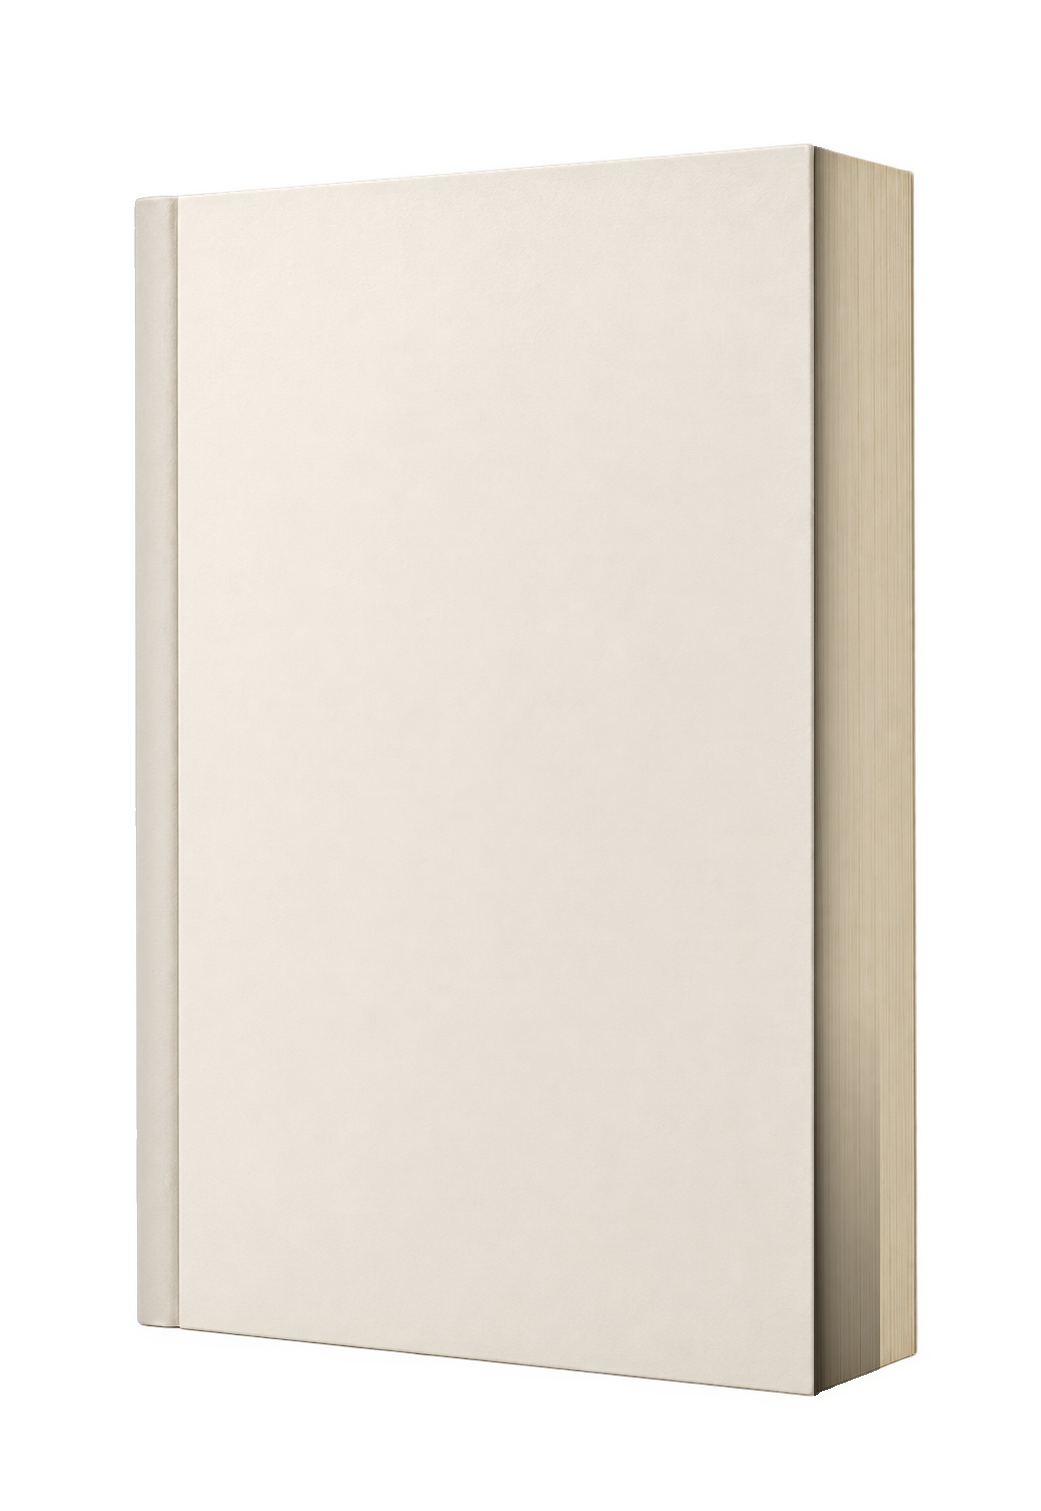
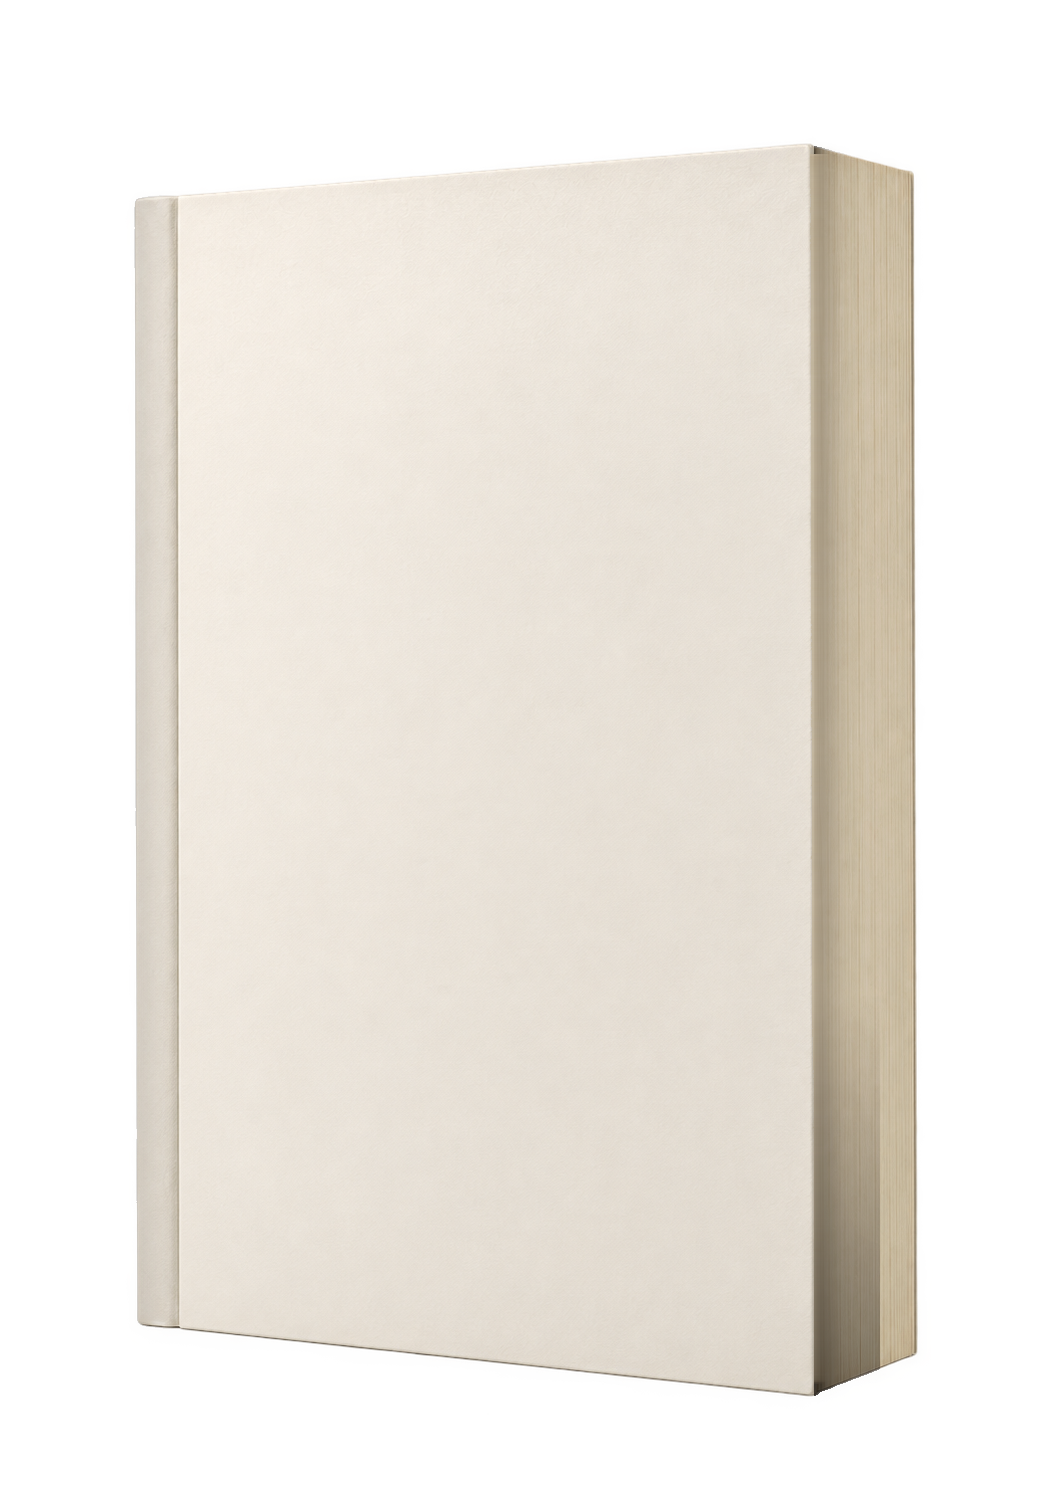
fix(home,cms): remove harsh 3D book shadow artifacts, point preview to storefront, remove dialer roller, round frame corners

Changed region(s): [[0.7685, 0.0933, 0.7992, 0.9021]]

diff --git a/app/src/components/admin/VisualCmsEditor.tsx b/app/src/components/admin/VisualCmsEditor.tsx
@@ -91,116 +91,6 @@ const REGISTERED_CMS_KEYS: EditableKeyInfo[] = [
   { key: 'footer.phone', label: 'Landline Phone Number', section: 'Contact & Storefront', defaultText: '033 2219 6115' },
 ];
 
-// Apple Digital Precision Roller (Horizontal Crown / Ruler)
-const DigitalRoller: React.FC<{
-  value: number;
-  min?: number;
-  max?: number;
-  onChange: (val: number) => void;
-  isDark: boolean;
-}> = ({ value, min = 12, max = 80, onChange, isDark }) => {
-  const rulerRef = useRef<HTMLDivElement>(null);
-  const [isDragging, setIsDragging] = useState(false);
-
-  const ticks: number[] = [];
-  for (let i = min; i <= max; i += 2) {
-    ticks.push(i);
-  }
-
-  const updateFromPointer = (clientX: number) => {
-    if (!rulerRef.current) return;
-    const rect = rulerRef.current.getBoundingClientRect();
-    const ratio = Math.max(0, Math.min(1, (clientX - rect.left) / rect.width));
-    const newVal = Math.round(min + ratio * (max - min));
-    onChange(newVal);
-  };
-
-  const handlePointerDown = (e: React.PointerEvent) => {
-    e.preventDefault();
-    setIsDragging(true);
-    updateFromPointer(e.clientX);
-  };
-
-  useEffect(() => {
-    if (!isDragging) return;
-
-    const handlePointerMove = (e: PointerEvent) => {
-      updateFromPointer(e.clientX);
-    };
-
-    const handlePointerUp = () => {
-      setIsDragging(false);
-    };
-
-    window.addEventListener('pointermove', handlePointerMove);
-    window.addEventListener('pointerup', handlePointerUp);
-    return () => {
-      window.removeEventListener('pointermove', handlePointerMove);
-      window.removeEventListener('pointerup', handlePointerUp);
-    };
-  }, [isDragging, min, max]);
-
-  const percent = Math.max(0, Math.min(100, ((value - min) / (max - min)) * 100));
-
-  return (
-    <div
-      ref={rulerRef}
-      onPointerDown={handlePointerDown}
-      onWheel={(e) => {
-        e.preventDefault();
-        const delta = e.deltaY < 0 ? 1 : -1;
-        onChange(Math.max(min, Math.min(max, value + delta)));
-      }}
-      className={`relative h-11 rounded-xl overflow-hidden cursor-ew-resize select-none border transition-all ${
-        isDark
-          ? 'bg-zinc-950 border-zinc-700 shadow-inner'
-          : 'bg-gradient-to-b from-slate-200 via-slate-50 to-slate-200 border-black/10 shadow-[inset_0_2px_5px_rgba(0,0,0,0.08)]'
-      }`}
-      title="Click and drag horizontally to roll font size smoothly, or scroll mouse wheel"
-    >
-      {/* 3D Cylindrical Edge Vignettes */}
-      <div className="absolute inset-y-0 left-0 w-10 bg-gradient-to-r from-black/40 dark:from-black/80 to-transparent pointer-events-none z-10" />
-      <div className="absolute inset-y-0 right-0 w-10 bg-gradient-to-l from-black/40 dark:from-black/80 to-transparent pointer-events-none z-10" />
-
-      {/* Graduation Marks */}
-      <div className="absolute inset-0 flex items-center justify-between px-3">
-        {ticks.map((t) => {
-          const isMajor = t % 8 === 0 || t === min || t === max;
-          const isMedium = t % 4 === 0 && !isMajor;
-          return (
-            <div key={t} className="flex flex-col items-center justify-end h-full py-1.5 pointer-events-none">
-              <div
-                className={`w-[1px] rounded-full transition-colors ${
-                  isMajor
-                    ? isDark ? 'h-5 bg-zinc-200' : 'h-5 bg-slate-700'
-                    : isMedium
-                    ? isDark ? 'h-3 bg-zinc-400' : 'h-3 bg-slate-400'
-                    : isDark ? 'h-1.5 bg-zinc-600' : 'h-1.5 bg-slate-300'
-                }`}
-              />
-              {isMajor && (
-                <span className={`text-[8px] font-mono mt-0.5 leading-none ${
-                  isDark ? 'text-zinc-300 font-bold' : 'text-slate-500'
-                }`}>
-                  {t}
-                </span>
-              )}
-            </div>
-          );
-        })}
-      </div>
-
-      {/* Apple Center Sapphire Needle with Optical Glow */}
-      <div
-        className="absolute top-0 bottom-0 w-[2px] bg-blue-500 shadow-[0_0_10px_#3b82f6] z-20 pointer-events-none"
-        style={{ left: `${percent}%` }}
-      >
-        <div className="absolute -top-1 left-1/2 -translate-x-1/2 w-2.5 h-2.5 rounded-full bg-blue-500 shadow-md border border-white" />
-        <div className="absolute -bottom-1 left-1/2 -translate-x-1/2 w-2.5 h-2.5 rounded-full bg-blue-500 shadow-md border border-white" />
-      </div>
-    </div>
-  );
-};
 
 export const VisualCmsEditor: React.FC<VisualCmsEditorProps> = () => {
   // Theme state: Clean 2-way toggle: Apple iOS light (default) or macOS dark
@@ -282,11 +172,9 @@ export const VisualCmsEditor: React.FC<VisualCmsEditorProps> = () => {
     return () => window.removeEventListener('message', handleMessage);
   }, [isInspectorCollapsed]);
 
-  // Determine storefront preview base URL (points to storefront domain when running on admin subdomain)
-  const previewOrigin = typeof window !== 'undefined'
-    ? (window.location.hostname.includes('admin')
-        ? window.location.origin.replace('://admin.', '://')
-        : window.location.origin)
+  // Determine storefront preview base URL (always points to live customer storefront)
+  const previewOrigin = typeof window !== 'undefined' && window.location.hostname.includes('localhost') && window.location.port === '5173'
+    ? 'http://localhost:5173'
     : 'https://technoworldbooks.in';
   const previewUrl = `${previewOrigin}${selectedPage}${selectedPage.includes('?') ? '&' : '?'}cms_edit=true&_preview=${iframeKey}`;
 
@@ -769,16 +657,21 @@ export const VisualCmsEditor: React.FC<VisualCmsEditorProps> = () => {
 
           {/* Responsive Preview Device Window Frame (Resizable) */}
           <div
-            className={`flex flex-col rounded-2xl overflow-hidden transition-all duration-150 ${themeClasses.frameBorder} bg-white relative`}
+            className={`flex flex-col rounded-[24px] overflow-hidden transition-all duration-150 ${themeClasses.frameBorder} bg-white relative shadow-2xl`}
             style={{
               width: getCanvasWidthPx(),
               maxWidth: '100%',
               height: 'calc(100% - 40px)',
               minHeight: '480px',
+              borderRadius: '24px',
+              overflow: 'hidden',
+              transform: 'translateZ(0)',
+              isolation: 'isolate',
+              WebkitMaskImage: '-webkit-radial-gradient(white, black)',
             }}
           >
             {/* Safari Mock Address Bar */}
-            <div className="bg-slate-100/90 dark:bg-zinc-800/90 border-b border-slate-200/80 dark:border-zinc-700/80 px-3.5 py-2 flex items-center justify-between shrink-0 select-none backdrop-blur-md">
+            <div className="bg-slate-100/90 dark:bg-zinc-800/90 border-b border-slate-200/80 dark:border-zinc-700/80 px-3.5 py-2 flex items-center justify-between shrink-0 select-none backdrop-blur-md rounded-t-[24px]">
               <div className="flex items-center gap-1.5">
                 <span className="h-2.5 w-2.5 rounded-full bg-rose-400" />
                 <span className="h-2.5 w-2.5 rounded-full bg-amber-400" />
@@ -814,7 +707,11 @@ export const VisualCmsEditor: React.FC<VisualCmsEditorProps> = () => {
               src={previewUrl}
               onLoad={handleIframeLoad}
               title="Live Storefront Preview"
-              className="w-full flex-1 border-0 bg-white"
+              className="w-full flex-1 border-0 bg-white rounded-b-[24px]"
+              style={{
+                borderBottomLeftRadius: '24px',
+                borderBottomRightRadius: '24px',
+              }}
             />
 
             {/* Canvas Right Edge Drag Handle for Custom Width Resizing */}
@@ -960,14 +857,6 @@ export const VisualCmsEditor: React.FC<VisualCmsEditorProps> = () => {
                       </div>
                     </div>
 
-                    {/* Apple Precision Digital Roller */}
-                    <DigitalRoller
-                      value={activeFontSizeNum}
-                      min={12}
-                      max={80}
-                      onChange={handleFontSizeChange}
-                      isDark={isDark}
-                    />
 
                     {/* Quick Preset Font Size Chips */}
                     <div className="flex flex-wrap gap-1">

diff --git a/app/src/pages/Home.tsx b/app/src/pages/Home.tsx
@@ -212,7 +212,7 @@ export default function Home() {
               className="absolute inset-0 pointer-events-none bg-gradient-to-r from-[#02120b]/60 via-[#02120b]/20 to-[#02120b]/35 mix-blend-multiply"
             />
 
-            {/* Realistic Physical Multi-Vector Shadow on Wooden Riser */}
+            {/* Soft Ambient Contact Shadow on Wooden Pedestal */}
             <div
               className="absolute hidden lg:block pointer-events-none"
               style={{
@@ -221,57 +221,10 @@ export default function Home() {
                 width: activePreset.shadow.diffuse.width,
                 height: activePreset.shadow.diffuse.height,
                 transform: `rotate(${activePreset.shadow.diffuse.angle})`,
-                background: 'radial-gradient(ellipse at 50% 50%, rgba(5,2,1,0.88) 0%, rgba(15,8,3,0.50) 55%, transparent 75%)',
-                filter: 'blur(6px)',
+                background: 'radial-gradient(ellipse at 50% 50%, rgba(15, 8, 3, 0.40) 0%, rgba(25, 12, 4, 0.15) 50%, transparent 75%)',
+                filter: 'blur(10px)',
               }}
             />
-            {/* Front Cover Bottom Contact Shadow */}
-            <div
-              className="absolute hidden lg:block pointer-events-none"
-              style={{
-                left: activePreset.shadow.contact.left,
-                top: activePreset.shadow.contact.top,
-                width: activePreset.shadow.contact.width,
-                height: activePreset.shadow.contact.height,
-                transformOrigin: '0% 50%',
-                transform: `rotate(${activePreset.shadow.contact.angle})`,
-                background: 'linear-gradient(90deg, rgba(0,0,0,0.92) 0%, rgba(0,0,0,0.98) 40%, rgba(0,0,0,0.90) 85%, rgba(0,0,0,0.60) 100%)',
-                filter: 'blur(2px)',
-              }}
-            />
-            {/* Page Block Bottom Contact Shadow */}
-            {activePreset.shadow.pageBlock && (
-              <div
-                className="absolute hidden lg:block pointer-events-none"
-                style={{
-                  left: activePreset.shadow.pageBlock.left,
-                  top: activePreset.shadow.pageBlock.top,
-                  width: activePreset.shadow.pageBlock.width,
-                  height: activePreset.shadow.pageBlock.height,
-                  transformOrigin: '0% 0%',
-                  transform: `rotate(${activePreset.shadow.pageBlock.angle})`,
-                  background: 'linear-gradient(90deg, rgba(0,0,0,0.98) 0%, rgba(10,5,2,0.92) 40%, rgba(20,10,5,0.75) 80%, rgba(0,0,0,0.40) 100%)',
-                  filter: 'blur(1.5px)',
-                }}
-              />
-            )}
-
-            {/* Page Block Soft Cast Shadow on Wooden Table */}
-            {activePreset.shadow.pageBlockCast && (
-              <div
-                className="absolute hidden lg:block pointer-events-none"
-                style={{
-                  left: activePreset.shadow.pageBlockCast.left,
-                  top: activePreset.shadow.pageBlockCast.top,
-                  width: activePreset.shadow.pageBlockCast.width,
-                  height: activePreset.shadow.pageBlockCast.height,
-                  transformOrigin: '0% 50%',
-                  transform: activePreset.shadow.pageBlockCast.angle ? `rotate(${activePreset.shadow.pageBlockCast.angle})` : undefined,
-                  background: 'radial-gradient(ellipse at 40% 50%, rgba(0,0,0,0.85) 0%, rgba(10,5,2,0.50) 60%, transparent 85%)',
-                  filter: 'blur(4px)',
-                }}
-              />
-            )}
 
             {/* Dynamic 3D Book on Wooden Pedestal */}
             <div
@@ -386,11 +339,11 @@ export default function Home() {
                     }}
                   />
 
-                  {/* Physical Spine Crease & Page Seam Ambient Occlusion */}
+                  {/* Subtle Spine Crease Ambient Occlusion */}
                   <div
                     className="absolute inset-0 z-20 pointer-events-none"
                     style={{
-                      background: 'linear-gradient(90deg, rgba(0,0,0,0.50) 0%, rgba(0,0,0,0.12) 3%, transparent 8%, transparent 92%, rgba(0,0,0,0.22) 100%)',
+                      background: 'linear-gradient(90deg, rgba(0,0,0,0.22) 0%, rgba(0,0,0,0.05) 2%, transparent 6%)',
                     }}
                   />
                 </div>
